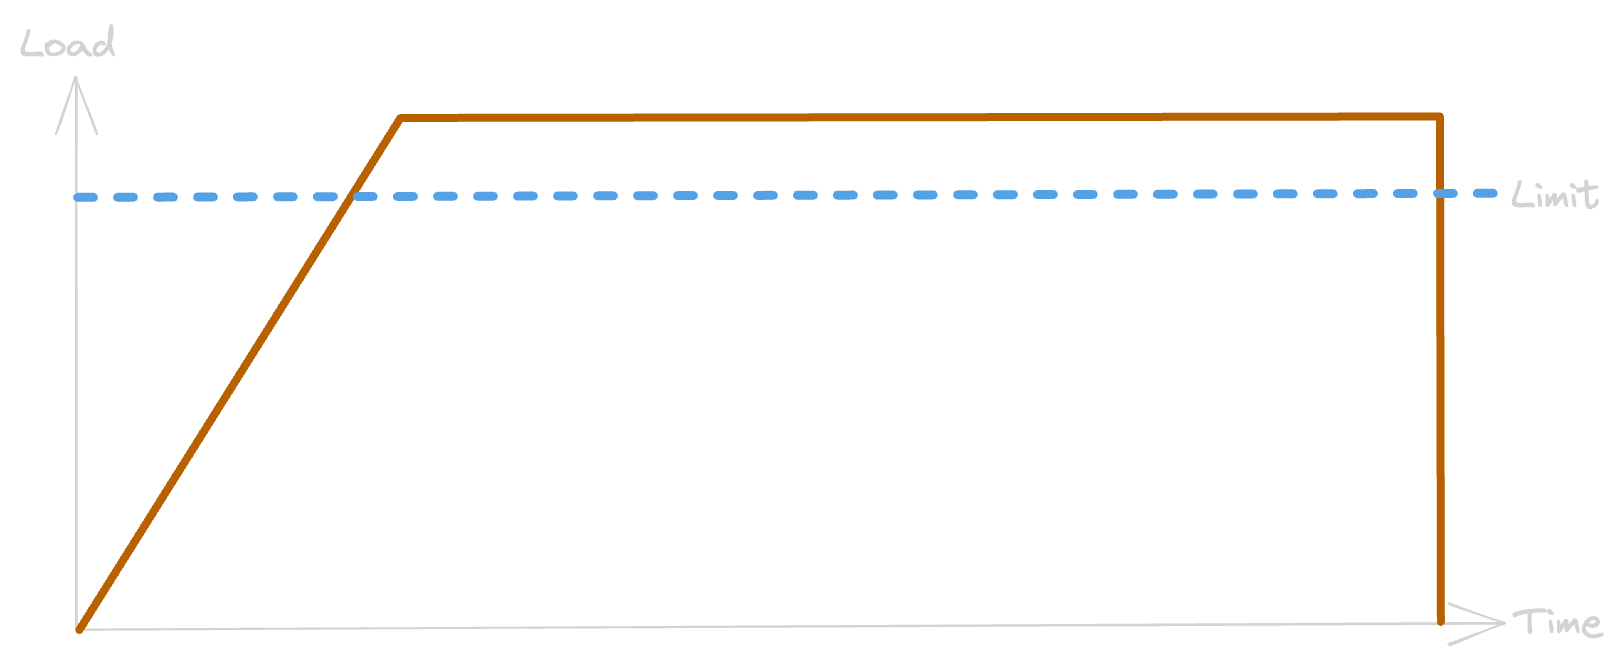
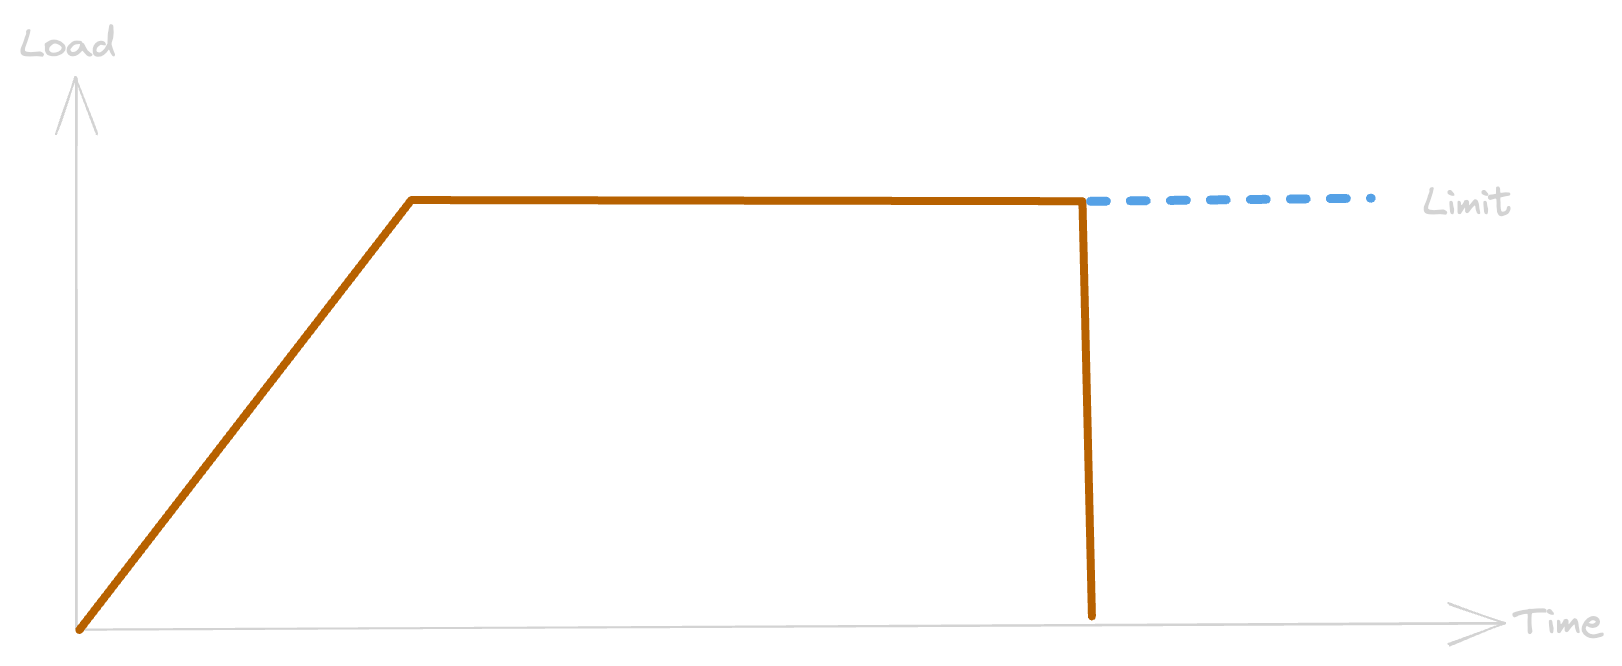
feat(presentaton): adding more notes and slides

Changed region(s): [[0.0308, 0.1502, 0.9864, 0.9309], [0.0308, 0.9009, 0.0617, 0.9309]]

diff --git a/presentation/slides_EN.md b/presentation/slides_EN.md
@@ -124,8 +124,8 @@ next, we're going to see the difference between test kinds, they can be applied
 ![](img/what-tests-isolation-test.png)
 
 Note:
-this kind of test is to perform on a test bench (an isolated test case / context) by repeating test execution.
-
+This test kind is practice on a test bench (to isolate the case / context) by repeating test execution.
+The main objective is to compare execution results between them.
 The tested part can be a bunch of code, or an isolated system.
 
 <!--v-->
@@ -135,14 +135,19 @@ The tested part can be a bunch of code, or an isolated system.
 ![](img/what-tests-load-test.png)
 
 Note:
-The load test is the simplest way to test an application. 
-The objective is to check if the application can manage the limit that has been decided before the test.
-The application dependencies infrastructure services should also be monitored during the test.
 
-in build context, this test can be used to monitor the application response time, and the objective to maintain.
+
+Ce type de test peut être utilisé comme un reporting de qualité d'une release à une autre, ainsi qu'un objectif à maintenir.
+
+The load test is the simplest way to test an application. 
+The objective is to check if the application can manage response time and resources consumption limits that have been
+decided previously (by SLA for example)
+The infrastructure services should also be monitored during the test.
+
+This test kind can be used as quality report to evaluate and compare a release from another.
 
 <!--v-->
-
+   
 ### stress testing
 
 ![](img/what-tests-stress-test.png)
@@ -150,8 +155,6 @@ in build context, this test can be used to monitor the application response time
 Note:
 This kind of test is designed to determine the response limit for the tested application and/or the application 
 dependencies.
-
-(schema to redo)
 
 <!--v-->
 
